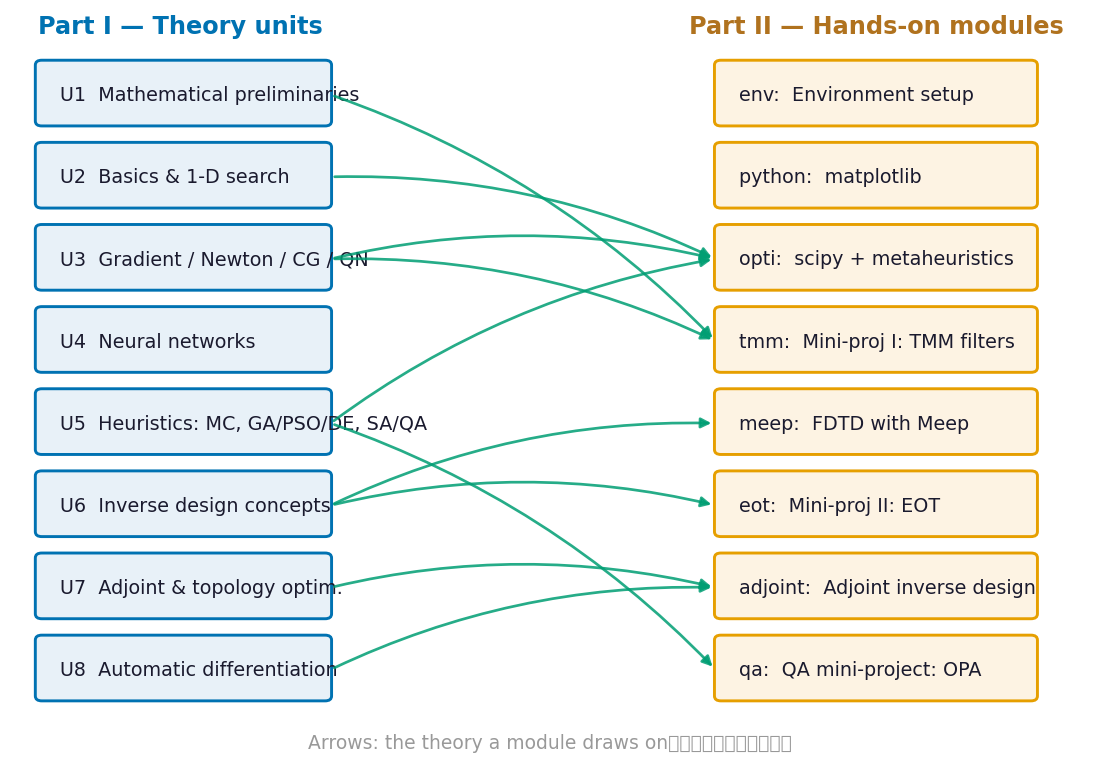
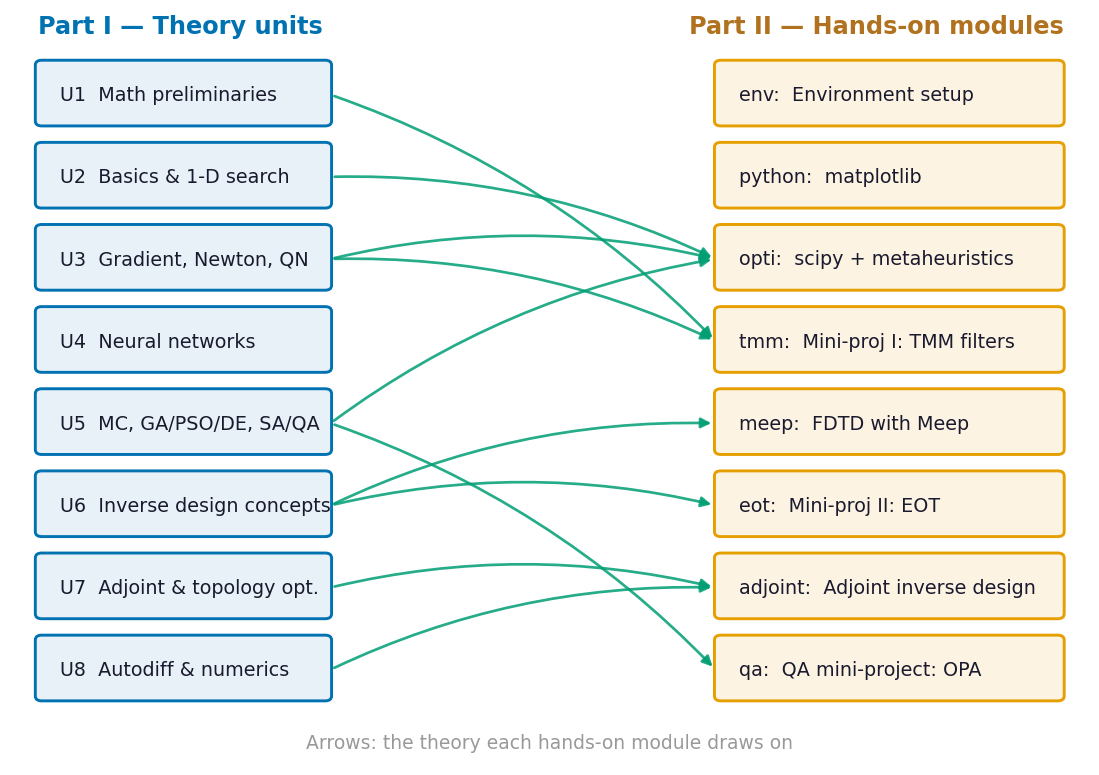
unit01: fix roadmap figure (CJK tofu, label overflow)

diff --git a/figs_src/u01_roadmap.py b/figs_src/u01_roadmap.py
@@ -8,14 +8,14 @@ from matplotlib.patches import FancyBboxPatch
 BLUE, ORANGE, GREEN, GREY = "#0072B2", "#E69F00", "#009E73", "#999999"
 
 units = [
-    ("U1", "Mathematical preliminaries"),
+    ("U1", "Math preliminaries"),
     ("U2", "Basics & 1-D search"),
-    ("U3", "Gradient / Newton / CG / QN"),
+    ("U3", "Gradient, Newton, QN"),
     ("U4", "Neural networks"),
-    ("U5", "Heuristics: MC, GA/PSO/DE, SA/QA"),
+    ("U5", "MC, GA/PSO/DE, SA/QA"),
     ("U6", "Inverse design concepts"),
-    ("U7", "Adjoint & topology optim."),
-    ("U8", "Automatic differentiation"),
+    ("U7", "Adjoint & topology opt."),
+    ("U8", "Autodiff & numerics"),
 ]
 mods = [
     ("env", "Environment setup"),
@@ -51,7 +51,7 @@ for i, (tag, label) in enumerate(units):
 for i, (tag, label) in enumerate(mods):
     y = 7.5 - i
     pos_m[tag] = (6.6, y)
-    ax.add_patch(FancyBboxPatch((6.6, y - 0.32), 2.9, 0.68,
+    ax.add_patch(FancyBboxPatch((6.6, y - 0.32), 3.15, 0.68,
                                 boxstyle="round,pad=0.06", fc="#FDF3E3", ec=ORANGE, lw=1.4))
     ax.text(6.77, y, f"{tag}:  {label}", va="center", ha="left", fontsize=9.2, color="#1a1a2e")
 
@@ -64,7 +64,7 @@ for u, m in edges:
 
 ax.text(1.55, 8.25, "Part I — Theory units", fontsize=11.5, ha="center", weight="bold", color=BLUE)
 ax.text(8.05, 8.25, "Part II — Hands-on modules", fontsize=11.5, ha="center", weight="bold", color="#B0721E")
-ax.text(5.0, -0.45, "Arrows: the theory a module draws on（模組使用的理論單元）",
+ax.text(5.0, -0.45, "Arrows: the theory each hands-on module draws on",
         fontsize=9, ha="center", color=GREY)
 
 out = Path(__file__).resolve().parent.parent / "assets" / "u01_roadmap.png"
